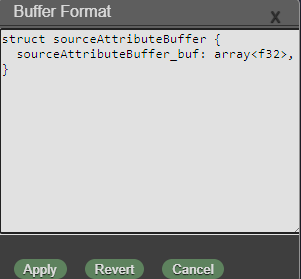
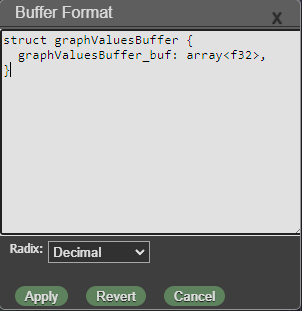
update buffer format docs

Changed region(s): [[0.0, 0.0, 1.0, 0.8602], [0.0, 0.9176, 1.0, 1.0], [0.9568, 0.2007, 0.9867, 0.2294]]

diff --git a/docs/formatting_buffer_data.md b/docs/formatting_buffer_data.md
@@ -40,6 +40,13 @@ Which would then present the buffer data as:
 
 ![Buffer Format Vec4f](images/buffer_format_vec4f.png)
 
+## Radix Views
+
+Not only can you change the format of the data, you can change the number radix of the display, from **Decimal**, **Hexidecimal**, **Octal**, or **Binary**. Changing the Radix to Hexidecimal will display all numbers as hexidecimal.
+
+![Buffer Format Hexidecimal](images/buffer_edit_format_hex.png)
+![Buffer Format Hexidecimal](images/buffer_format_hex.png)
+
 ## Format data types
 
 Format types are specified as WGSL variable types. These can be either struct, array, or basic types. See the WGSL spec for more information.
